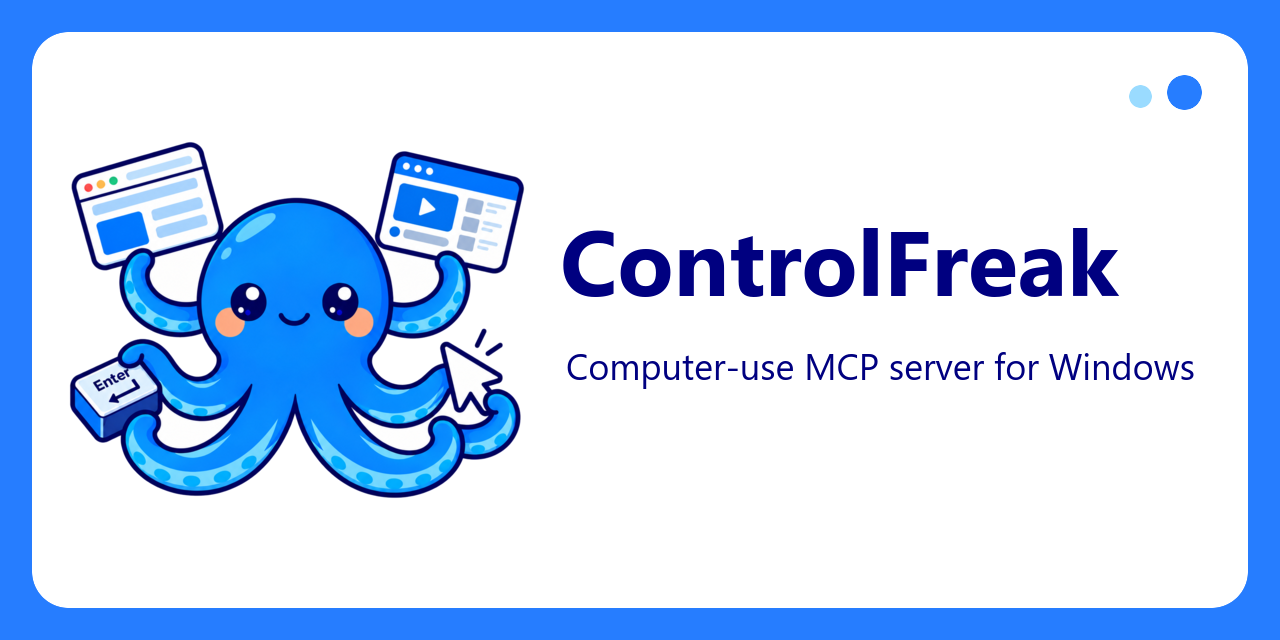
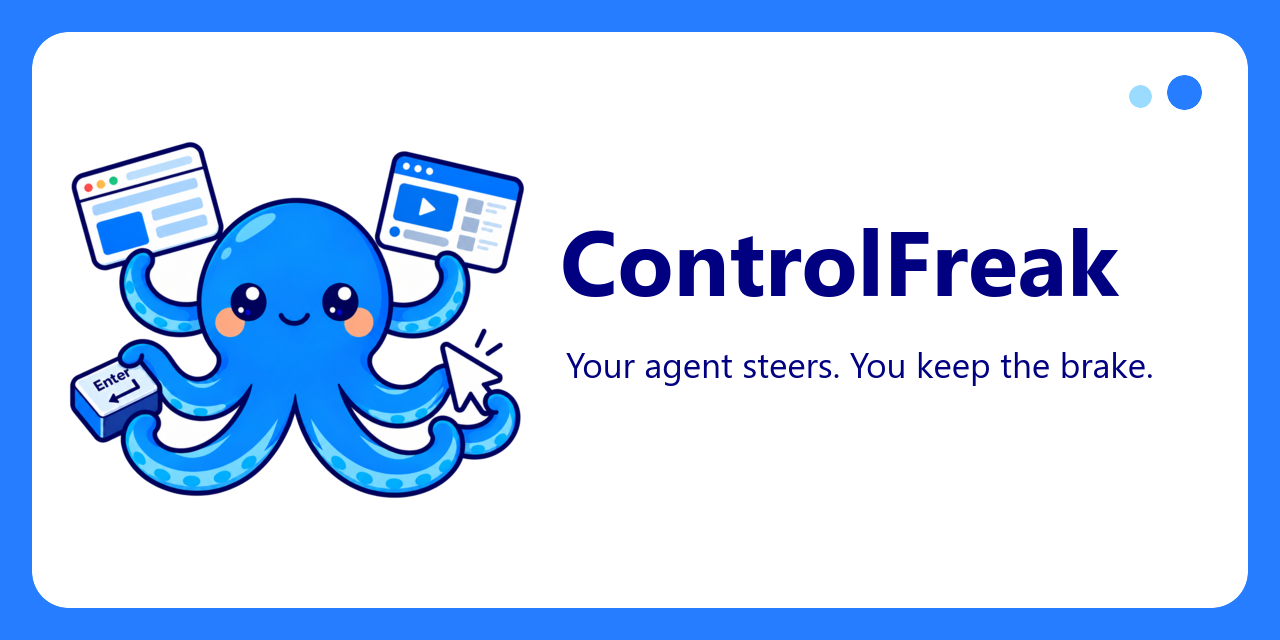
Use the tagline 'Your agent steers. You keep the brake.'

Changed region(s): [[0.4375, 0.5312, 0.9375, 0.625]]

diff --git a/README.md b/README.md
@@ -4,6 +4,8 @@
   <img src="assets/logo.png" width="240" alt="ControlFreak mascot: a blue octopus holding two app windows, pressing a key and clicking a mouse cursor">
 </p>
 
+<p align="center"><strong>Your agent steers. You keep the brake.</strong></p>
+
 [![CI](https://github.com/Subhransu-De/ControlFreak/actions/workflows/ci.yml/badge.svg)](https://github.com/Subhransu-De/ControlFreak/actions/workflows/ci.yml)
 [![Release](https://img.shields.io/github/v/release/Subhransu-De/ControlFreak?include_prereleases)](https://github.com/Subhransu-De/ControlFreak/releases)
 [![License: MIT](https://img.shields.io/badge/license-MIT-blue.svg)](LICENSE)
